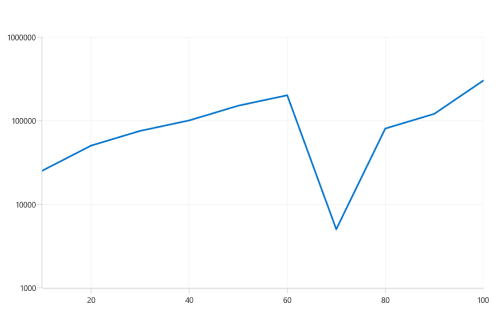
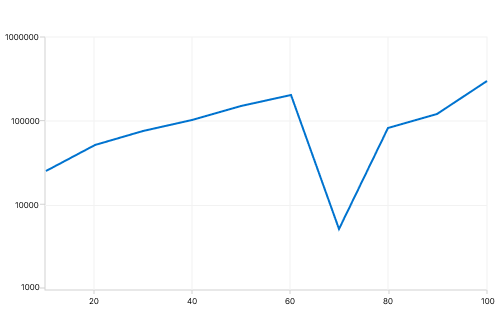
WinUI-913860-Updated Log axis UG images and added API Link

diff --git a/winui/Cartesian-Charts/Axis/Types.md b/winui/Cartesian-Charts/Axis/Types.md
@@ -355,7 +355,7 @@ chart.XAxes.Add(primaryAxis);
 
 ## Logarithmic Axis
 
-The [LogarithmicAxis]() uses a logarithmic scale, ideal for visualizing data with large value differences. It can be applied to both the X and Y axes of a chart, allows customization of the logarithmic base, and dynamically calculates ranges to effectively display wide-ranging datasets.
+The [LogarithmicAxis](https://help.syncfusion.com/cr/winui/Syncfusion.UI.Xaml.Charts.LogarithmicAxis.html) uses a logarithmic scale, ideal for visualizing data with large value differences. It can be applied to both the X and Y axes of a chart, allows customization of the logarithmic base, and dynamically calculates ranges to effectively display wide-ranging datasets.
 
 {% tabs %}
 
@@ -386,7 +386,7 @@ chart.YAxes.Add(secondaryAxis);
 
 ### Interval
 
-The Axis interval can be customized using the [Interval]() property of the axis. By default, the interval is calculated based on the minimum and maximum values of the provided data, with a default value of `1`.
+The Axis interval can be customized using the [Interval](https://help.syncfusion.com/cr/winui/Syncfusion.UI.Xaml.Charts.LogarithmicAxis.html#Syncfusion_UI_Xaml_Charts_LogarithmicAxis_Interval) property of the axis. By default, the interval is calculated based on the minimum and maximum values of the provided data, with a default value of `1`.
 
 {% tabs %}
 
@@ -418,7 +418,7 @@ chart.YAxes.Add(secondaryAxis);
 
 ### Customizing the Range
 
-The range of the logarithmic axis can be customized using the [Minimum]() and [Maximum]() properties of the LogarithmicAxis. By default, the range is automatically calculated to align with the provided data.
+The range of the logarithmic axis can be customized using the [Minimum](https://help.syncfusion.com/cr/winui/Syncfusion.UI.Xaml.Charts.LogarithmicAxis.html#Syncfusion_UI_Xaml_Charts_LogarithmicAxis_Minimum) and [Maximum](https://help.syncfusion.com/cr/winui/Syncfusion.UI.Xaml.Charts.LogarithmicAxis.html#Syncfusion_UI_Xaml_Charts_LogarithmicAxis_Maximum) properties of the LogarithmicAxis. By default, the range is automatically calculated to align with the provided data.
 
 {% tabs %}
 
@@ -451,7 +451,7 @@ chart.YAxes.Add(secondaryAxis);
 
 ### Customizing the Logarithmic base
 
-The logarithmic axis base can be customized using the [LogarithmicBase]() property. The default logarithmic base value is `10`.
+The logarithmic axis base can be customized using the [LogarithmicBase](https://help.syncfusion.com/cr/winui/Syncfusion.UI.Xaml.Charts.LogarithmicAxis.html#Syncfusion_UI_Xaml_Charts_LogarithmicAxis_LogarithmicBase) property. The default logarithmic base value is `10`.
 
 {% tabs %}
 

diff --git a/winui/Polar-Chart/Axis-Types.md b/winui/Polar-Chart/Axis-Types.md
@@ -178,7 +178,7 @@ chart.SecondaryAxis = new NumericalAxis();
 
 ## Logarithmic Axis
 
-The logarithmic axis uses a logarithmic scale, making it highly effective for visualizing data with large range differences. It can be applied to both the PrimaryAxis and SecondaryAxis.
+The [LogarithmicAxis](https://help.syncfusion.com/cr/winui/Syncfusion.UI.Xaml.Charts.LogarithmicAxis.html) uses a logarithmic scale, making it highly effective for visualizing data with large range differences. It can be applied to both the PrimaryAxis and SecondaryAxis.
 
 {% tabs %}
 
@@ -209,7 +209,7 @@ chart.SecondaryAxis.Add(secondaryAxis);
 
 ### Interval
 
-The Axis interval can be customized using the [Interval]() property of the axis. By default, the interval is calculated based on the minimum and maximum values of the provided data, with a default value of `1`.
+The Axis interval can be customized using the [Interval](https://help.syncfusion.com/cr/winui/Syncfusion.UI.Xaml.Charts.LogarithmicAxis.html#Syncfusion_UI_Xaml_Charts_LogarithmicAxis_Interval) property of the axis. By default, the interval is calculated based on the minimum and maximum values of the provided data, with a default value of `1`.
 
 {% tabs %}
 
@@ -241,7 +241,7 @@ chart.SecondaryAxis.Add(secondaryAxis);
 
 ### Customizing the Range
 
-The range of the logarithmic axis can be customized using the [Minimum]() and [Maximum]() properties of the LogarithmicAxis. By default, the range is automatically calculated to align with the provided data.
+The range of the logarithmic axis can be customized using the [Minimum](https://help.syncfusion.com/cr/winui/Syncfusion.UI.Xaml.Charts.LogarithmicAxis.html#Syncfusion_UI_Xaml_Charts_LogarithmicAxis_Minimum) and [Maximum](https://help.syncfusion.com/cr/winui/Syncfusion.UI.Xaml.Charts.LogarithmicAxis.html#Syncfusion_UI_Xaml_Charts_LogarithmicAxis_Maximum) properties of the LogarithmicAxis. By default, the range is automatically calculated to align with the provided data.
 
 {% tabs %}
 
@@ -274,7 +274,7 @@ chart.SecondaryAxis.Add(secondaryAxis);
 
 ### Customizing the Logarithmic base
 
-The logarithmic axis base can be customized using the [LogarithmicBase]() property. The default base value is `10`.
+The logarithmic axis base can be customized using the [LogarithmicBase](https://help.syncfusion.com/cr/winui/Syncfusion.UI.Xaml.Charts.LogarithmicAxis.html#Syncfusion_UI_Xaml_Charts_LogarithmicAxis_LogarithmicBase) property. The default base value is `10`.
 
 {% tabs %}
 
